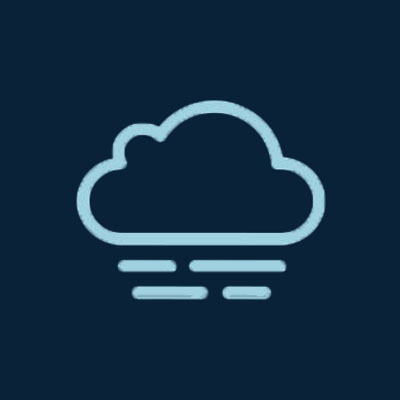
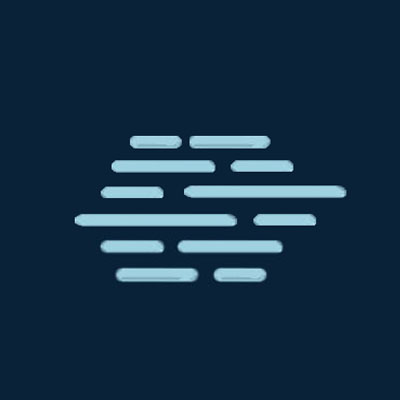
updated code, still very slow webpage

Changed region(s): [[0.18, 0.24, 0.87, 0.75]]

diff --git a/index.js b/index.js
@@ -1,12 +1,48 @@
 const apiKey = "229bb1238b115797a4f3a6ce03fb494a"
 const searchBtn = document.getElementById("searchBtn") 
 const cityError = document.getElementById("error-city")
+const container = document.getElementById("container")
+const resultDiv = document.getElementById("result")
 
+const temp = document.getElementById("temp")
+const cityName = document.getElementById("cityName")
+const humidity = document.getElementById("humidity")
+const wind = document.getElementById("wind")
+const icon = document.getElementById("imgIcon")
 
+const setData = (data) => {
+    if(data.weather[0].main === "Clouds"){
+        icon.setAttribute("src", "weather-icons/broken-clouds.jpg")
+    }else if(data.weather[0].main === "Thunderstorm"){
+        icon.setAttribute("src", "weather-icons/thunderstorm.jpg")
+    }else if(data.weather[0].main === "Rain"){
+        icon.setAttribute("src", "weather-icons/rain.jpg")
+    }else if(data.weather[0].main === "Clear"){
+        icon.setAttribute("src", "weather-icons/clear-day.jpg")
+    }else if(data.weather[0].main === "Drizzle"){
+        icon.setAttribute("src", "weather-icons/rain-night.jpg")
+    }else if(data.weather[0].main === "Atmosphere"){
+        icon.setAttribute("src", "weather-icons/mist.jpg")
+    }
+
+    temp.innerHTML = `${Math.round(data.main.temp)}<sup>o</sup>C`;
+    cityName.innerText = data.name;
+    humidity.innerText =`${data.main.humidity}%`
+    wind.innerText = `${data.wind.speed}km/h`
+}
 
 const fetchURL = (city) => fetch(`https://api.openweathermap.org/data/2.5/weather?q=${city}&appid=${apiKey}&units=metric`)
 .then(res => res.json())
 
+const isInputFieldFalse = () => {
+    cityError.classList.remove("hide")
+    resultDiv.classList.add("hide")
+}
+
+const isInputFieldTrue = () => {
+    cityError.classList.add("hide")
+    resultDiv.classList.remove("hide")
+}
 
 document.addEventListener("keydown", (event) => {
     if(event.key === "Enter"){
@@ -16,26 +52,16 @@ document.addEventListener("keydown", (event) => {
 
 const getData = () => {
     const city = document.getElementById("cityInput").value
+    icon.removeAttribute("src")
 
     if(!city.trim()){
-        cityError.classList.remove("hide")
+        isInputFieldFalse()
     }else{
-        cityError.classList.add("hide")
-
         fetchURL(city)
         .then((data) => {
-        //temp
-        console.log(Math.round(data.main.temp));
-        //wind speed
-        console.log(data.wind.speed);
-        //weather icon
-        console.log(data.weather[0].main);
-        //main code for app
-
-
-        //https://openweathermap.org/weather-conditions   - weather icons
-
-
+            
+        setData(data);
+        isInputFieldTrue();
         })
         .catch(err => console.error("Error 404"))
     }

diff --git a/style.css b/style.css
@@ -1,7 +1,10 @@
 @import url("https://fonts.googleapis.com/css2?family=Poppins&display=swap");
-
+@import url("https://fonts.googleapis.com/css2?family=Kanit:ital,wght@0,100;0,200;0,300;0,400;0,500;0,600;0,700;0,800;0,900;1,100;1,200;1,300;1,400;1,500;1,600;1,700;1,800;1,900&display=swap");
 
 body {
+  font-family: "Kanit", sans-serif;
+  font-weight: 400;
+  font-style: normal;
   margin: 0;
   padding: 0;
   display: flex;
@@ -34,6 +37,9 @@ input {
   border: 2px solid #9ed2e0;
   padding: 10px;
   color: #9ed2e0;
+  font-family: "Kanit", sans-serif;
+  font-weight: 400;
+  font-style: normal;
 }
 
 input:focus{
@@ -42,6 +48,9 @@ input:focus{
 }
 
 button {
+  font-family: "Kanit", sans-serif;
+  font-weight: 400;
+  font-style: normal;
   background-color: #092136;
   color: #9ed2e0;
   border: 2px solid #9ed2e0;
@@ -58,9 +67,28 @@ button:hover{
   color: red;
   left: 0;
 }
-
+img{
+  width: 180px;
+}
 
 .hide{
   display: none;
+}
+h1{
+  font-size: 3rem;
+}
+.dataDiv{
+  display: flex;
+  justify-content: center;
+}
+
+.data{
+  display: flex;
+  flex-direction: row;
+  align-items: center;
+  margin: 0 10px;
+}
+.img-s{
+  width: 90px;
 }
 

diff --git a/index.html b/index.html
@@ -19,8 +19,21 @@
             <button id="searchBtn" onclick="getData()">Search</button>
         </div>
         <p class="error-input hide" id="error-city">Enter a valid city</p>
-        <div id="result">
-            
+        <!--       =======================================          -->
+        <div id="result" class="hide">
+            <img id="imgIcon">
+            <h1 id="temp">23<sup>o</sup>C</h2>
+            <h2 id="cityName">Mostar</h1>
+            <div class="dataDiv">
+                <div class="data">
+                    <img src="weather-icons/humidity.jpg" class="img-s">
+                    <p id="humidity">15%</p>
+                </div>
+                <div class="data">
+                    <img src="weather-icons/wind.jpg" class="img-s">
+                    <p id="wind">3.4 km/h</p>
+                </div>
+            </div>
         </div>
     </div>
 
